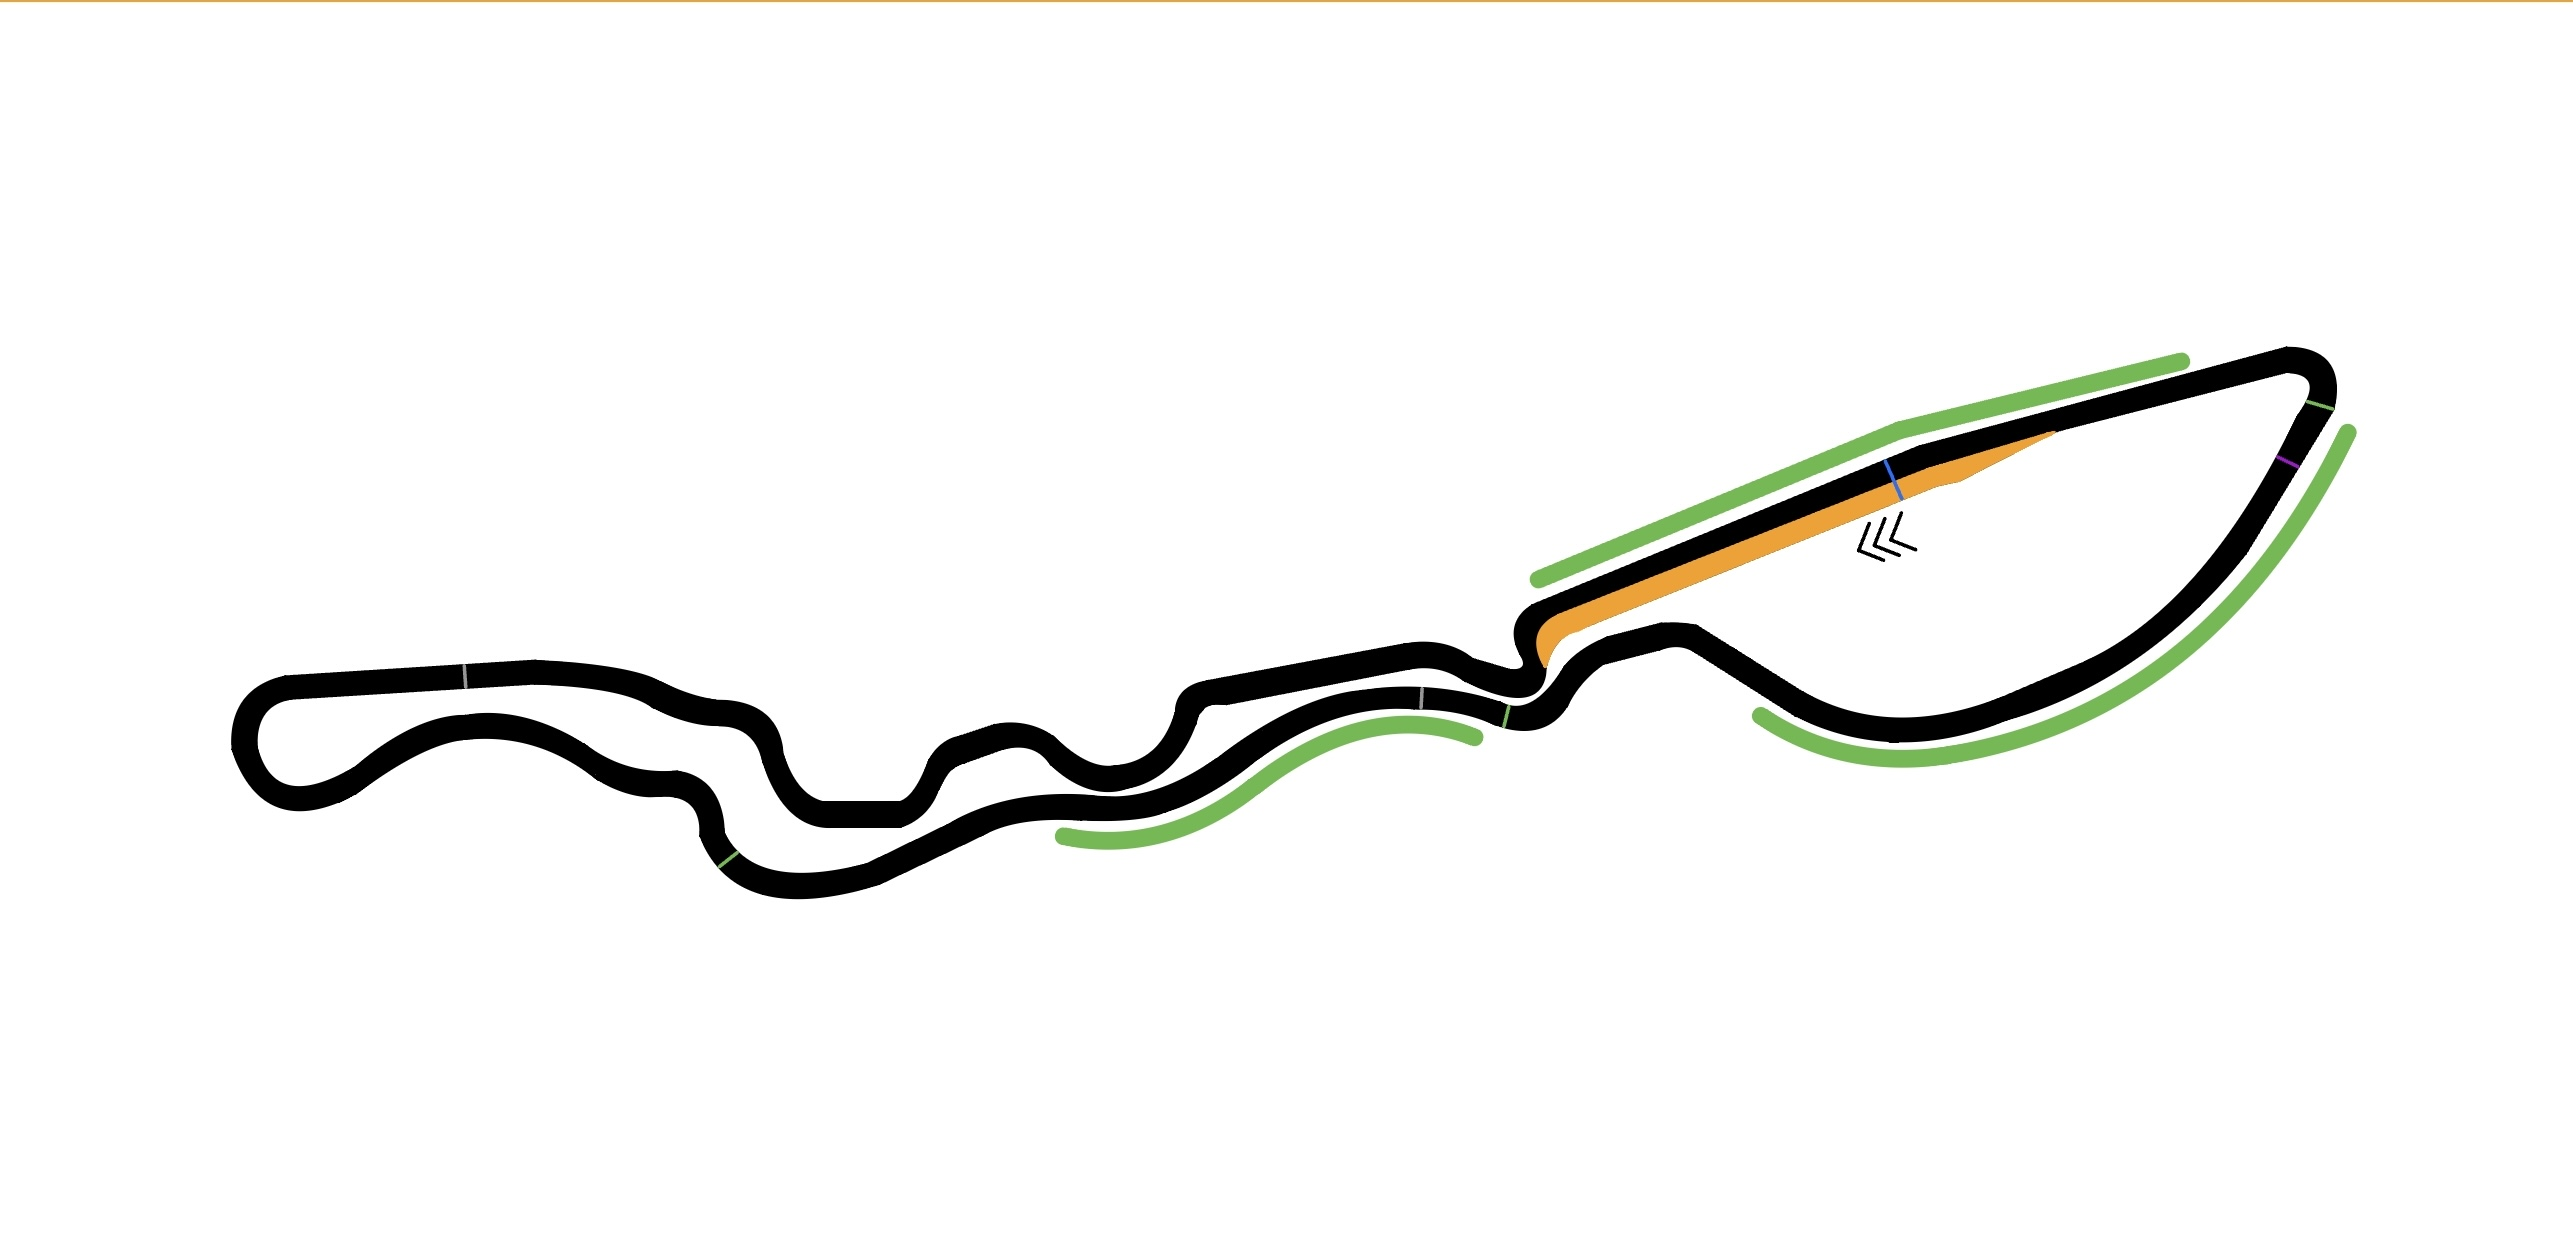
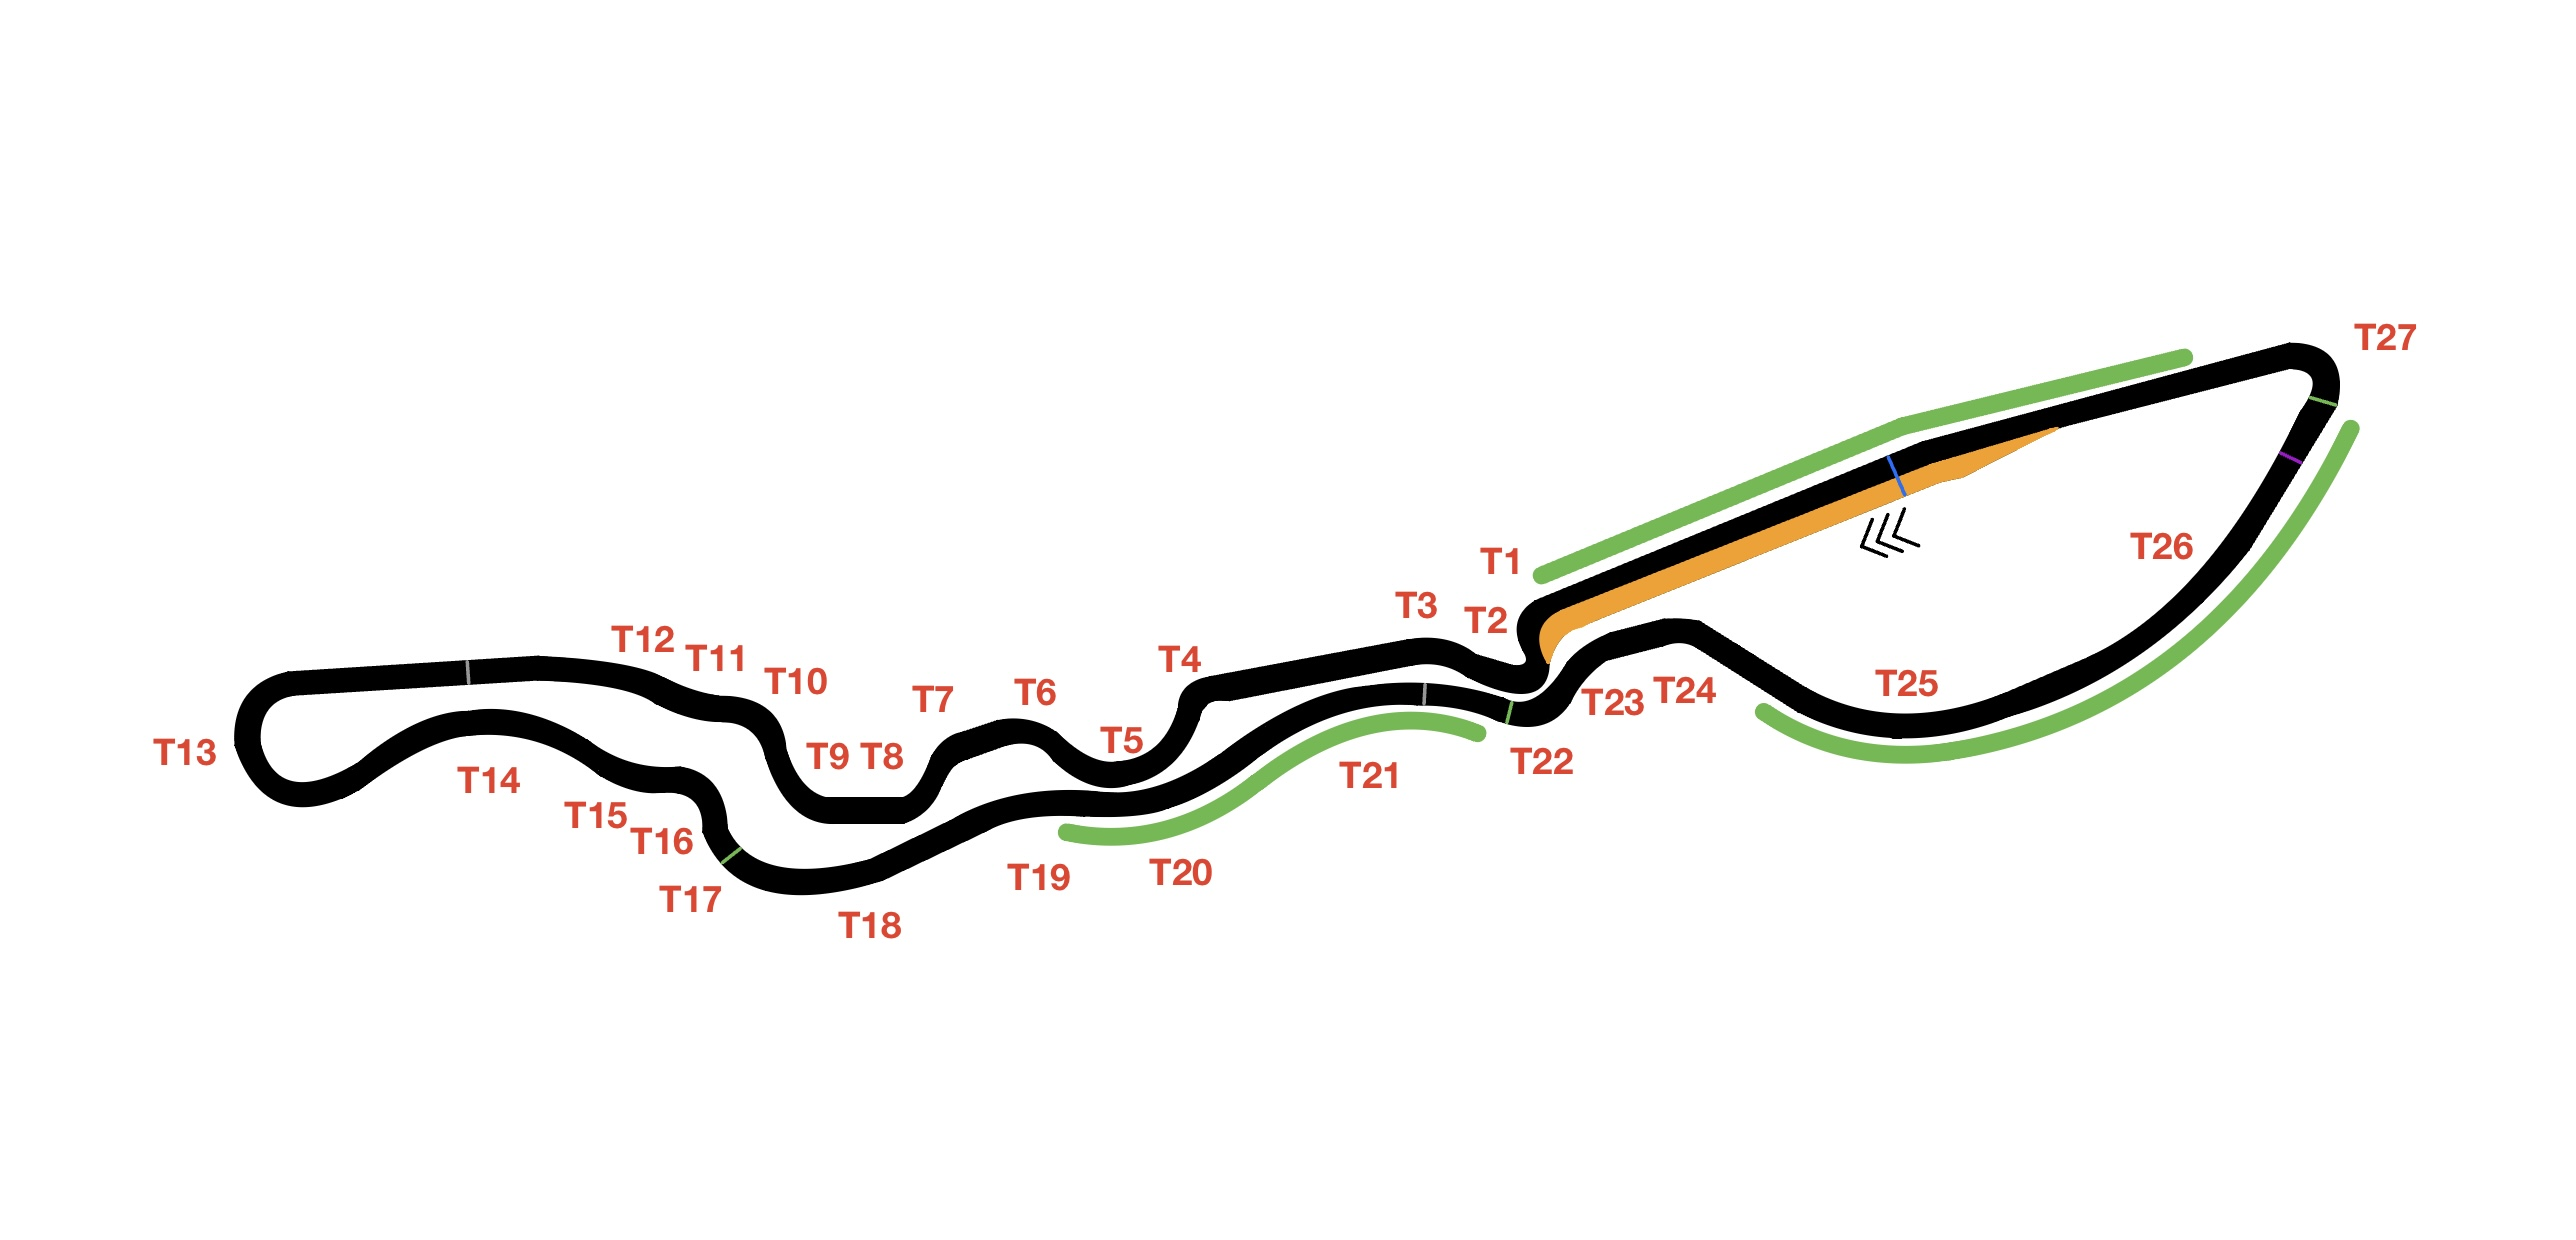
Add Melbourne track map and add turn numbers to existing tracks

Changed region(s): [[0.0933, 0.2456, 0.9328, 0.7674], [0.9017, 0.3376, 0.9328, 0.3683], [0.0622, 0.5832, 0.0933, 0.6139]]

diff --git a/mainwindow.cpp b/mainwindow.cpp
@@ -240,6 +240,11 @@ void MainWindow::setTrackMap() {
 
     switch (trackId) {
     case MELBOURNE:
+        minX = -1000;
+        maxX = 1000;
+        minY = -800;
+        maxY = 800;
+        trackImageName = "melbourne.jpg";
         break;
     case PAUL_RICARD:
         break;
@@ -250,7 +255,7 @@ void MainWindow::setTrackMap() {
         maxX = 800;
         minY = -800;
         maxY = 800;
-        trackImageName = "sakhir.png";
+        trackImageName = "sakhir.jpg";
         break;
     case CATALUNYA:
         break;

diff --git a/README.md b/README.md
@@ -39,6 +39,7 @@ Only some of the track maps have been drawn and added to the software. These are
 
 - Bahrain International Circuit (Bahrain)
 - Jeddah Corniche Circuit (Saudi Arabia)
+- Albert Park (Australia)
 
 ### Lap recording
 
@@ -58,7 +59,6 @@ Only some of the track maps have been drawn and added to the software. These are
 
 ### Incomplete Track Maps
 
-- Albert Park (Australia)
 - Baku City Circuit (Azerbaijan)
 - Miami International Autodrome (Miami)
 - Imola Circuit (Emilia Romagna)

diff --git a/TODO.md b/TODO.md
@@ -1,4 +1,4 @@
-# TODO
+# To Do List
 
 ## Bugs
 
